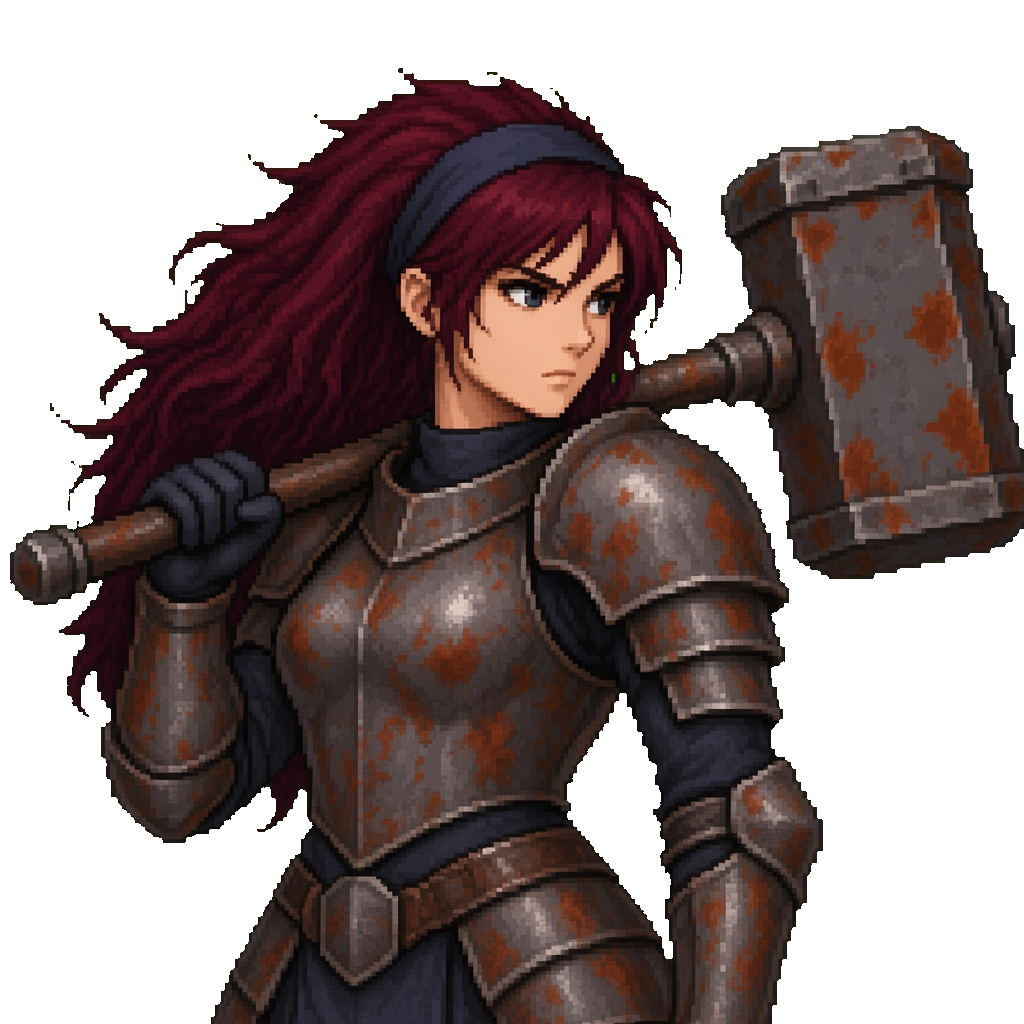
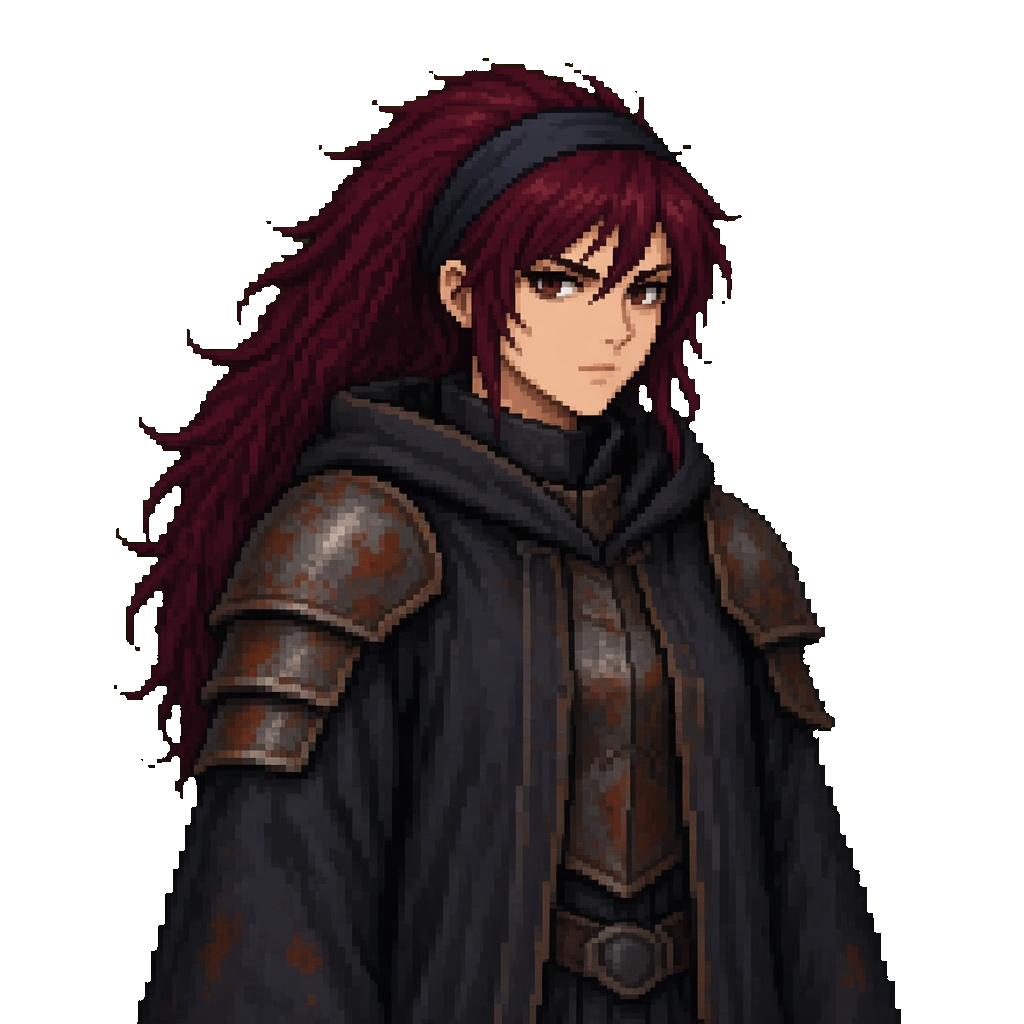
Modesty redo: looser outfits on Fey, Niobe, Gertrude, Ira, Mae, Terra portraits.

diff --git a/src/data/faceArt.js b/src/data/faceArt.js
@@ -37,27 +37,27 @@ export const FACE_ART = {
   dizzy: { key: 'face-dizzy', file: 'art-src/portraits/dizzy-face.png', box: [314, 51, 440, 440] },
   europa: { key: 'face-europa', file: 'art-src/portraits/europa-face.png', box: [362, 245, 440, 440] },
   fermi: { key: 'face-fermi', file: 'art-src/portraits/fermi-face.png', box: [321, 276, 440, 440] },
-  fey: { key: 'face-fey', file: 'art-src/portraits/fey-face.png', box: [354, 162, 440, 440] },
+  fey: { key: 'face-fey', file: 'art-src/portraits/fey-face.png', box: [349, 139, 440, 440] },
   flo: { key: 'face-flo', file: 'art-src/portraits/flo-face.png', box: [346, 0, 440, 440] },
   ford: { key: 'face-ford', file: 'art-src/portraits/ford-face.png', box: [305, 87, 440, 440] },
   frank: { key: 'face-frank', file: 'art-src/portraits/frank-face.png', box: [325, 194, 440, 440] },
-  gertrude: { key: 'face-gertrude', file: 'art-src/portraits/gertrude-face.png', box: [375, 137, 440, 440] },
+  gertrude: { key: 'face-gertrude', file: 'art-src/portraits/gertrude-face.png', box: [328, 78, 440, 440] },
   goldie: { key: 'face-goldie', file: 'art-src/portraits/goldie-face.png', box: [345, 221, 440, 440] },
   haley: { key: 'face-haley', file: 'art-src/portraits/haley-face.png', box: [355, 169, 440, 440] },
   hog: { key: 'face-hog', file: 'art-src/portraits/hog-face.png', box: [330, 199, 440, 440] },
   holly: { key: 'face-holly', file: 'art-src/portraits/holly-face.png', box: [310, 75, 440, 440] },
   indy: { key: 'face-indy', file: 'art-src/portraits/indy-face.png', box: [292, 144, 440, 440] },
   iona: { key: 'face-iona', file: 'art-src/portraits/iona-face.png', box: [351, 149, 440, 440] },
-  ira: { key: 'face-ira', file: 'art-src/portraits/ira-face.png', box: [254, 121, 440, 440] },
+  ira: { key: 'face-ira', file: 'art-src/portraits/ira-face.png', box: [247, 178, 440, 440] },
   krypto: { key: 'face-krypto', file: 'art-src/portraits/krypto-face.png', box: [261, 215, 440, 440] },
   lana: { key: 'face-lana', file: 'art-src/portraits/lana-face.png', box: [343, 208, 440, 440] },
   lars: { key: 'face-lars', file: 'art-src/portraits/lars-face.png', box: [322, 184, 440, 440] },
   lucy: { key: 'face-lucy', file: 'art-src/portraits/lucy-face.png', box: [366, 250, 440, 440] },
-  mae: { key: 'face-mae', file: 'art-src/portraits/mae-face.png', box: [322, 39, 440, 440] },
+  mae: { key: 'face-mae', file: 'art-src/portraits/mae-face.png', box: [341, 109, 440, 440] },
   molly: { key: 'face-molly', file: 'art-src/portraits/molly-face.png', box: [350, 219, 440, 440] },
   nadia: { key: 'face-nadia', file: 'art-src/portraits/nadia-face.png', box: [324, 128, 440, 440] },
   nick: { key: 'face-nick', file: 'art-src/portraits/nick-face.png', box: [325, 247, 440, 440] },
-  niobe: { key: 'face-niobe', file: 'art-src/portraits/niobe-face.png', box: [348, 102, 440, 440] },
+  niobe: { key: 'face-niobe', file: 'art-src/portraits/niobe-face.png', box: [332, 128, 440, 440] },
   noble: { key: 'face-noble', file: 'art-src/portraits/noble-face.png', box: [313, 26, 440, 440] },
   pablo: { key: 'face-pablo', file: 'art-src/portraits/pablo-face.png', box: [304, 137, 440, 440] },
   pat: { key: 'face-pat', file: 'art-src/portraits/pat-face.png', box: [322, 205, 440, 440] },
@@ -71,7 +71,7 @@ export const FACE_ART = {
   talia: { key: 'face-talia', file: 'art-src/portraits/talia-face.png', box: [311, 163, 440, 440] },
   tara: { key: 'face-tara', file: 'art-src/portraits/tara-face.png', box: [269, 229, 440, 440] },
   tate: { key: 'face-tate', file: 'art-src/portraits/tate-face.png', box: [322, 188, 440, 440] },
-  terra: { key: 'face-terra', file: 'art-src/portraits/terra-face.png', box: [335, 197, 440, 440] },
+  terra: { key: 'face-terra', file: 'art-src/portraits/terra-face.png', box: [328, 183, 440, 440] },
   tessa: { key: 'face-tessa', file: 'art-src/portraits/tessa-face.png', box: [391, 228, 440, 440] },
   tex: { key: 'face-tex', file: 'art-src/portraits/tex-face.png', box: [309, 233, 440, 440] },
   thule: { key: 'face-thule', file: 'art-src/portraits/thule-face.png', box: [349, 178, 440, 440] },
